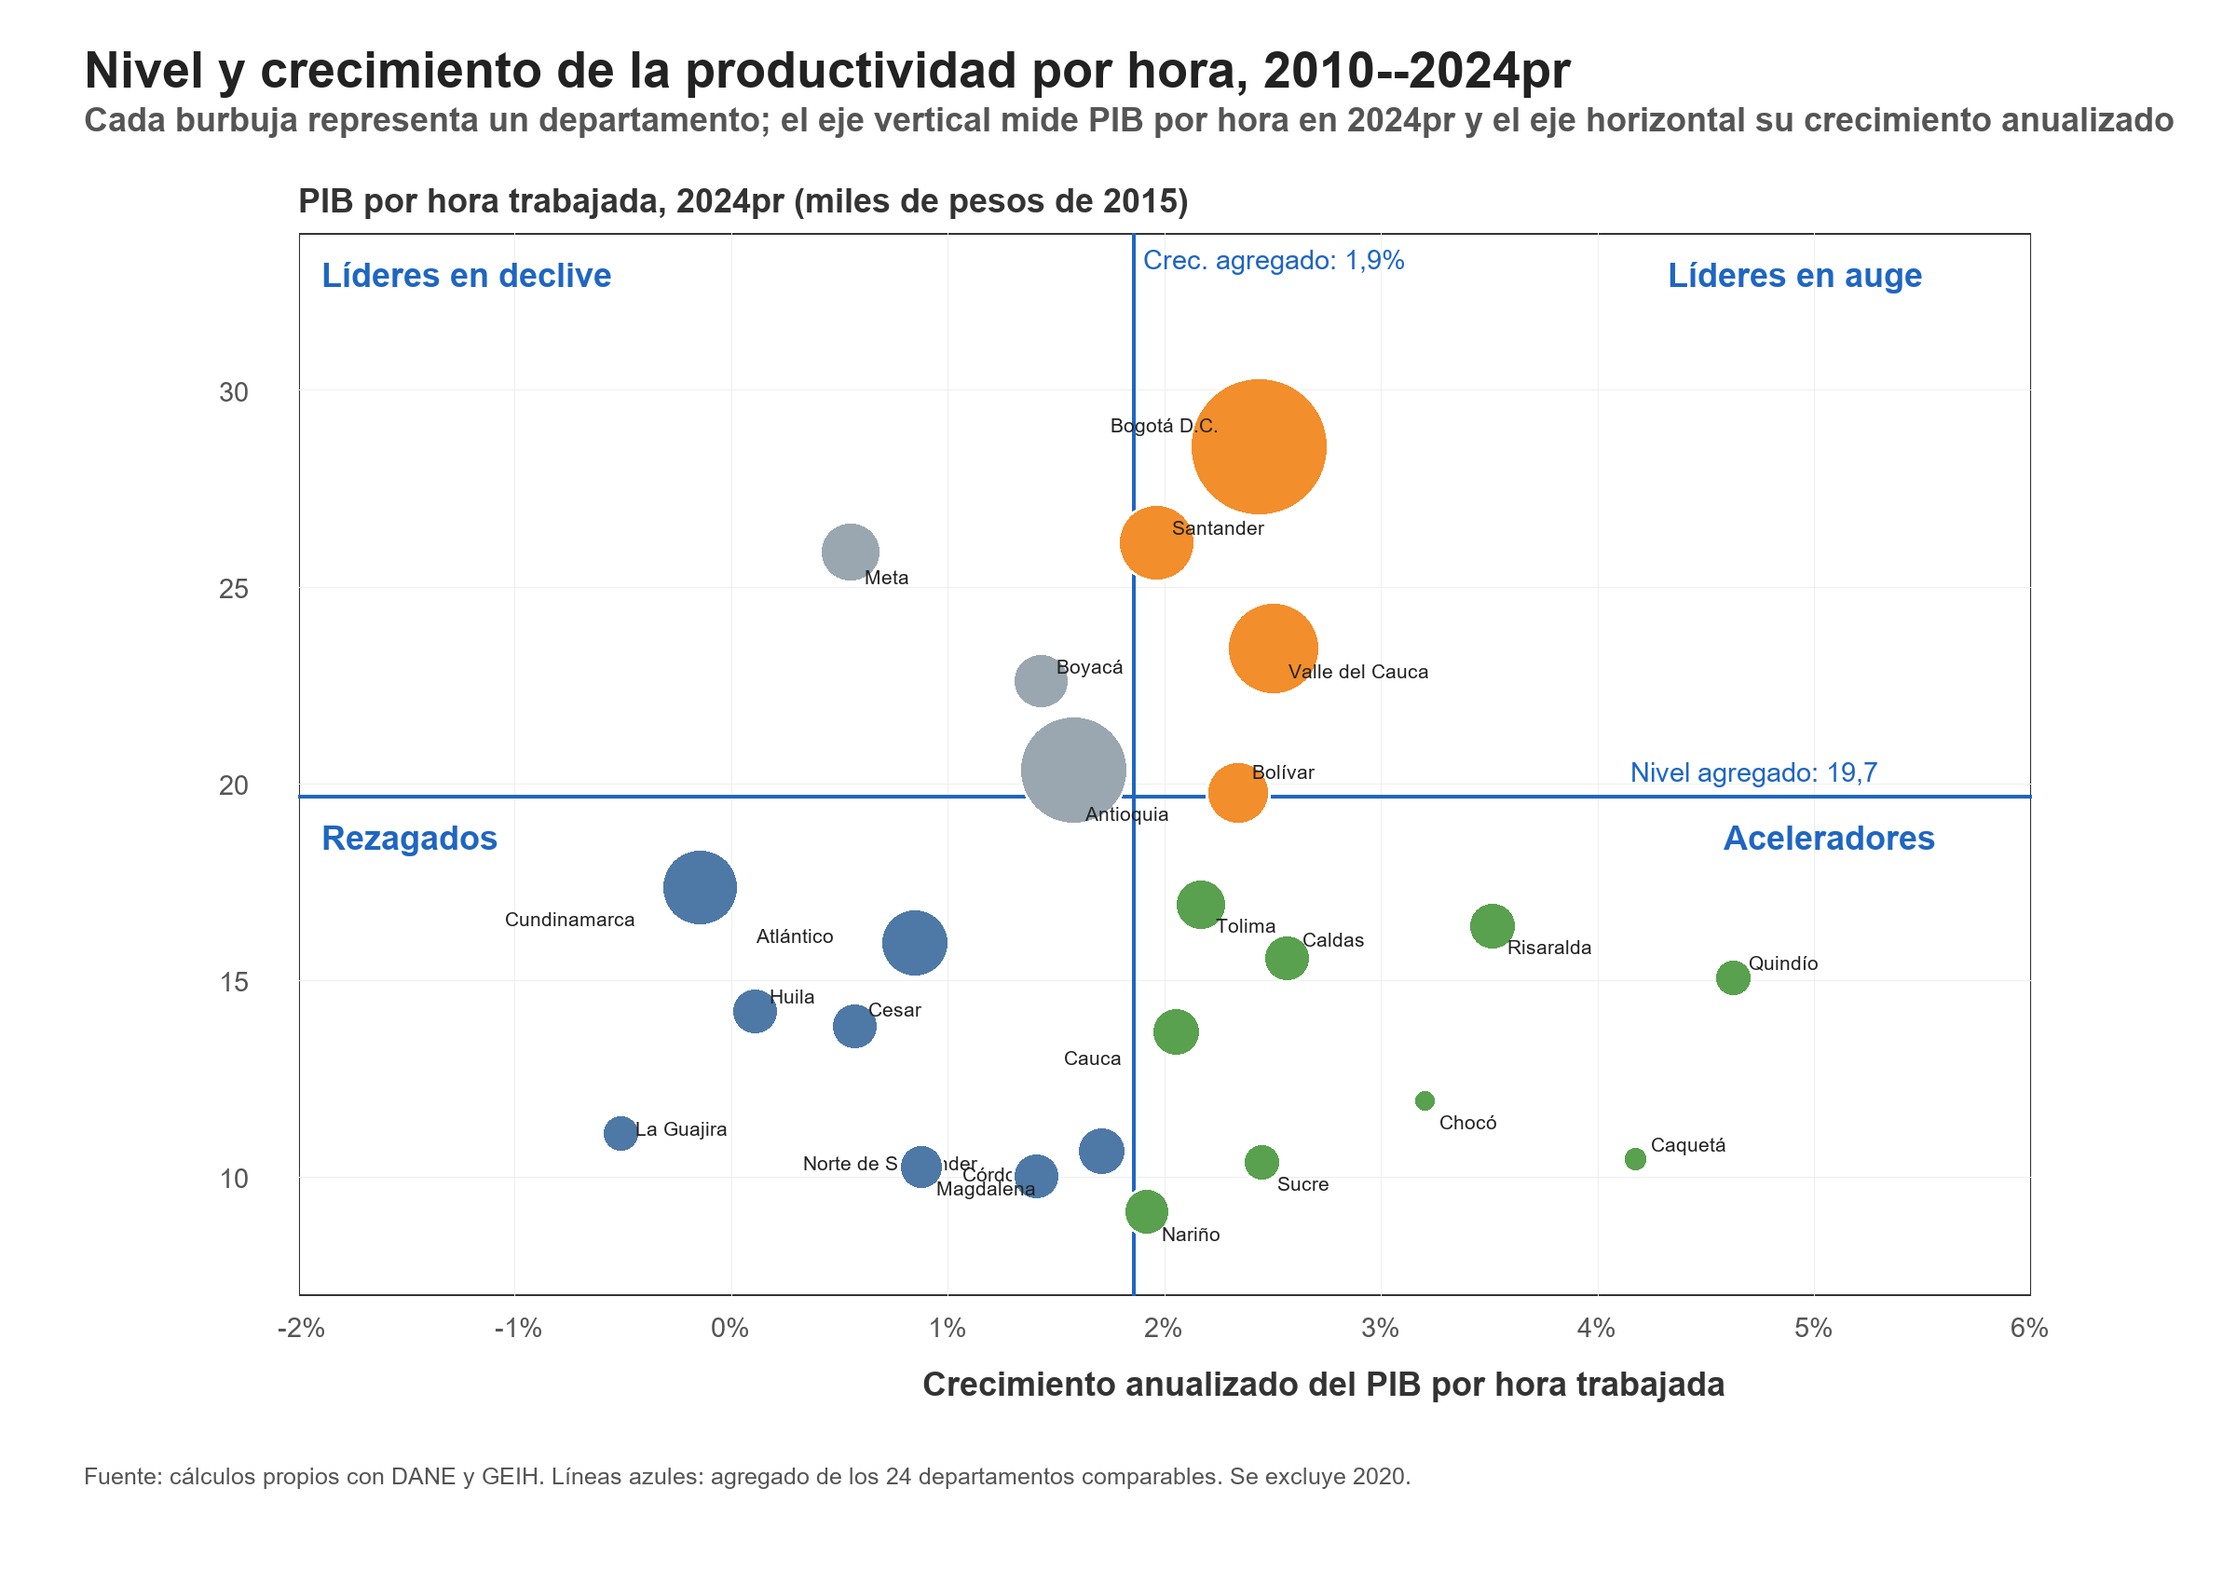
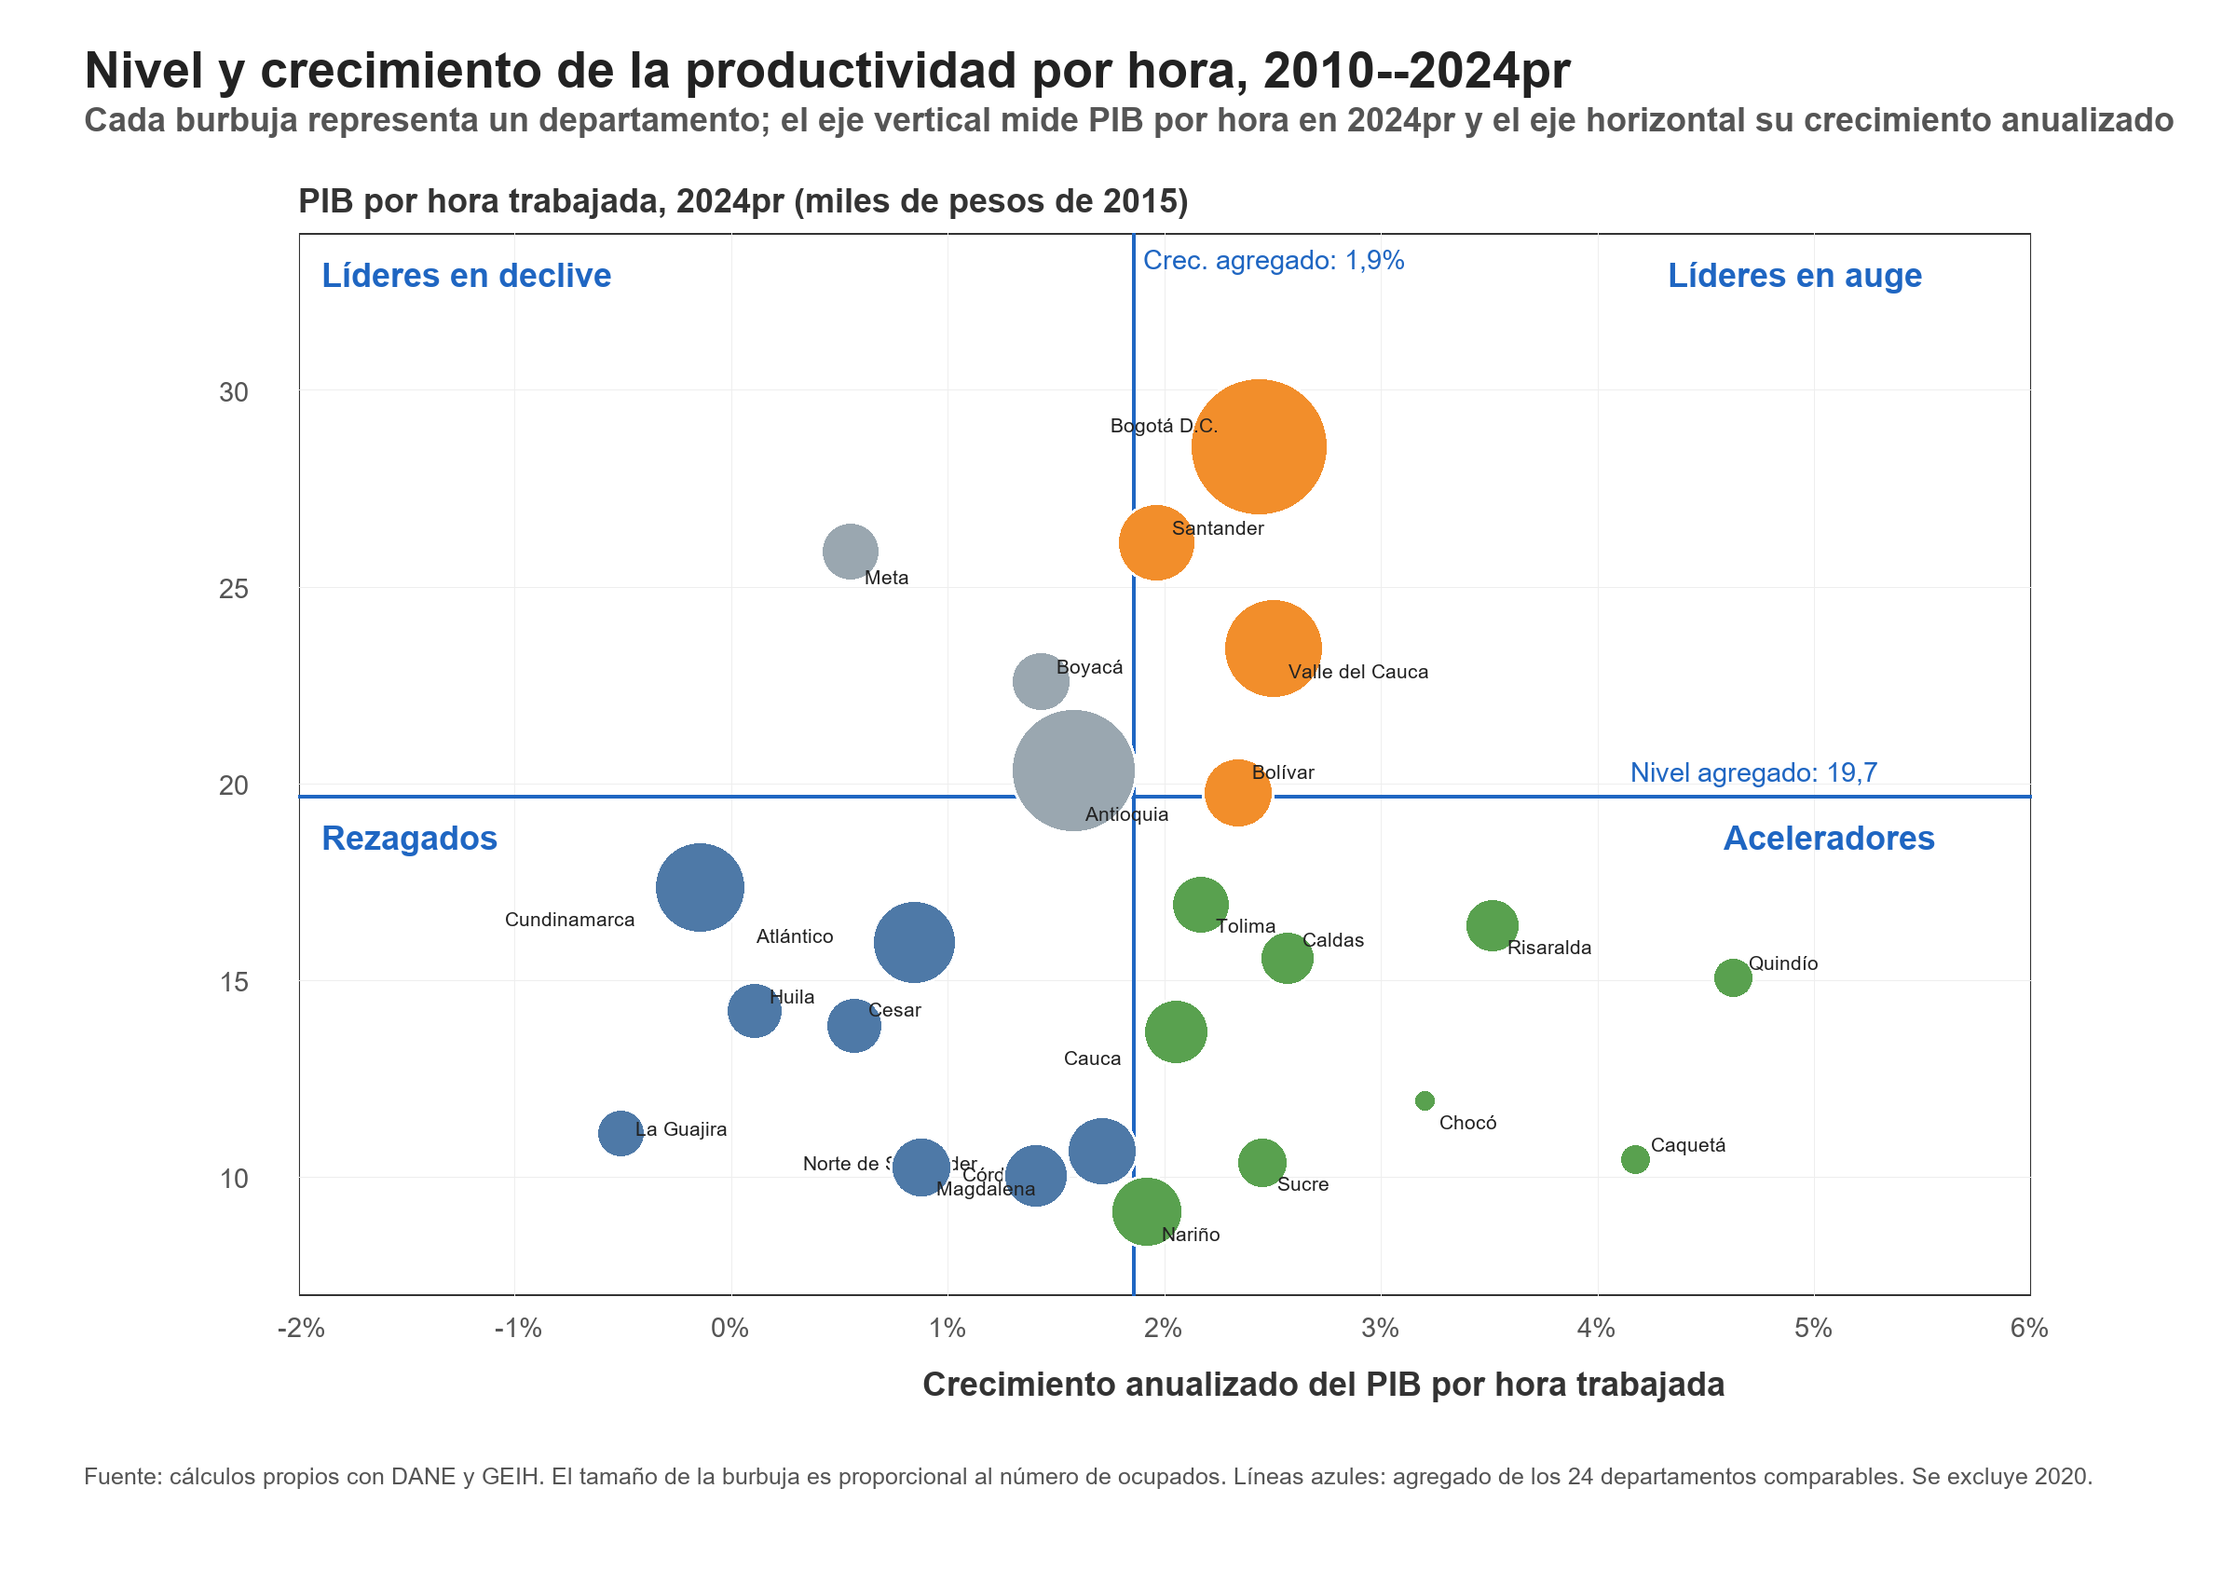
Actualizar cuadrantes departamentales de productividad y remuneracion

diff --git a/Code/02.6_PIB_GEIH_Productividad_Departamentos.py b/Code/02.6_PIB_GEIH_Productividad_Departamentos.py
@@ -625,6 +625,7 @@ def write_productivity_remuneration_table(table: pd.DataFrame) -> None:
         "ranking_crec_pib_trabajador",
         "ranking_crec_rem_trabajador",
         "brecha_ranking_crec_rem_menos_pib",
+        "ocupados_2024",
         "share_ocupados_remuneracion_valida_2024",
         "rem_por_trabajador_predicha_tendencia",
         "residuo_rem_por_trabajador_tendencia",
@@ -993,8 +994,8 @@ def draw_department_quadrant_chart(summary: pd.DataFrame, benchmarks: dict[str, 
         "Aceleradores": "#59a14f",
         "Rezagados": "#4e79a7",
     }
-    pib = data["pib_2024"]
-    min_pib, max_pib = pib.min(), pib.max()
+    ocupados = data["ocupados_2024"]
+    min_ocupados, max_ocupados = ocupados.min(), ocupados.max()
 
     label_offsets = {
         "Bogotá D.C.": (-160, -36),
@@ -1023,10 +1024,10 @@ def draw_department_quadrant_chart(summary: pd.DataFrame, benchmarks: dict[str, 
         "Tolima": (16, 10),
     }
 
-    for _, row in data.sort_values("pib_2024", ascending=False).iterrows():
+    for _, row in data.sort_values("ocupados_2024", ascending=False).iterrows():
         x = x_pos(row["crec_pib_hora"] * 100)
         y = y_pos(row["pib_hora_2024"] / 1000)
-        radius = 13 + 62 * math.sqrt((row["pib_2024"] - min_pib) / (max_pib - min_pib))
+        radius = 13 + 62 * math.sqrt((row["ocupados_2024"] - min_ocupados) / (max_ocupados - min_ocupados))
         color = colors[row["cuadrante"]]
         draw.ellipse((x - radius, y - radius, x + radius, y + radius), fill=color, outline="white", width=3)
         dx, dy = label_offsets.get(row["departamento"], (16, 10))
@@ -1046,12 +1047,161 @@ def draw_department_quadrant_chart(summary: pd.DataFrame, benchmarks: dict[str, 
     )
     draw.text(
         (90, 1570),
-        "Fuente: cálculos propios con DANE y GEIH. Líneas azules: agregado de los 24 departamentos comparables. Se excluye 2020.",
+        "Fuente: cálculos propios con DANE y GEIH. El tamaño de la burbuja es proporcional al número de ocupados. Líneas azules: agregado de los 24 departamentos comparables. Se excluye 2020.",
         fill="#555555",
         font=note_font,
     )
     for directory in [FIGURE_DIR, OUTPUT_FIGURE_DIR]:
         img.save(directory / "fig_pib_geih_productividad_departamento_cuadrantes.png")
+
+
+def classify_remuneration_quadrant(row: pd.Series, x_ref: float, y_ref: float) -> str:
+    right = row["crec_rem_trabajador"] >= x_ref
+    high = row["rem_por_trabajador_2024"] >= y_ref
+    if high and right:
+        return "Líderes en auge"
+    if high and not right:
+        return "Líderes en declive"
+    if not high and right:
+        return "Aceleradores"
+    return "Rezagados"
+
+
+def draw_department_remuneration_quadrant_chart(
+    table: pd.DataFrame, benchmarks: dict[str, float]
+) -> None:
+    data = table.copy()
+    x_ref = benchmarks["crec_rem_trabajador"]
+    y_ref = benchmarks["rem_por_trabajador_2024"]
+    data["cuadrante"] = data.apply(classify_remuneration_quadrant, axis=1, args=(x_ref, y_ref))
+
+    title_font, label_font, small_font, note_font, tiny_font = fonts()
+    img = Image.new("RGB", (2400, 1700), "white")
+    draw = ImageDraw.Draw(img)
+    draw.text(
+        (90, 45),
+        f"Nivel y crecimiento de la remuneración por trabajador, {START_YEAR}--{END_YEAR}pr",
+        fill="#222222",
+        font=title_font,
+    )
+    draw.text(
+        (90, 108),
+        "Eje vertical: nivel en 2024pr; eje horizontal: crecimiento anualizado; burbuja: número de ocupados",
+        fill="#555555",
+        font=label_font,
+    )
+
+    left, top, right, bottom = 320, 250, 2180, 1390
+    x_values = data["crec_rem_trabajador"] * 100
+    y_values = data["rem_por_trabajador_2024"] / 1e6
+    x_ref_pct = x_ref * 100
+    y_ref_millions = y_ref / 1e6
+    x_min = math.floor(min(x_values.min(), x_ref_pct) - 0.8)
+    x_max = math.ceil(max(x_values.max(), x_ref_pct) + 0.8)
+    y_min = max(0, math.floor((min(y_values.min(), y_ref_millions) - 0.2) * 10) / 10)
+    y_max = math.ceil((max(y_values.max(), y_ref_millions) + 0.3) * 10) / 10
+
+    def x_pos(value: float) -> float:
+        return left + (value - x_min) / (x_max - x_min) * (right - left)
+
+    def y_pos(value: float) -> float:
+        return bottom - (value - y_min) / (y_max - y_min) * (bottom - top)
+
+    draw.rectangle((left, top, right, bottom), outline="#333333", width=2)
+    for tick in range(math.ceil(x_min), math.floor(x_max) + 1, 1):
+        x = x_pos(tick)
+        draw.line((x, top, x, bottom), fill="#eeeeee", width=1)
+        draw.text((x - 22, bottom + 18), f"{tick}%", fill="#555555", font=small_font)
+
+    y_tick = math.ceil(y_min * 2) / 2
+    while y_tick <= y_max + 1e-9:
+        y = y_pos(y_tick)
+        draw.line((left, y, right, y), fill="#eeeeee", width=1)
+        draw.text((left - 95, y - 15), fmt_num_es(y_tick, 1), fill="#555555", font=small_font)
+        y_tick += 0.5
+
+    x_line = x_pos(x_ref_pct)
+    y_line = y_pos(y_ref_millions)
+    blue = "#1f66c2"
+    draw.line((x_line, top, x_line, bottom), fill=blue, width=4)
+    draw.line((left, y_line, right, y_line), fill=blue, width=4)
+    draw.text((x_line + 10, top + 12), f"Crec. agregado: {fmt_num_es(x_ref_pct, 1)}%", fill=blue, font=small_font)
+    draw.text((left + 25, y_line - 58), f"Nivel agregado: {fmt_num_es(y_ref_millions, 1)}", fill=blue, font=small_font)
+
+    quadrant_labels = [
+        ("Líderes en declive", left + 25, top + 25),
+        ("Líderes en auge", right - 390, top + 25),
+        ("Rezagados", left + 25, y_line + 25),
+        ("Aceleradores", right - 330, y_line + 95),
+    ]
+    for label, x, y in quadrant_labels:
+        draw.text((x, y), label, fill=blue, font=label_font)
+
+    colors = {
+        "Líderes en auge": "#f28e2b",
+        "Líderes en declive": "#9aa7b0",
+        "Aceleradores": "#59a14f",
+        "Rezagados": "#4e79a7",
+    }
+    ocupados = data["ocupados_2024"]
+    min_ocupados, max_ocupados = ocupados.min(), ocupados.max()
+
+    label_offsets = {
+        "Bogotá D.C.": (-170, -48),
+        "Antioquia": (22, 30),
+        "Valle del Cauca": (18, 28),
+        "Santander": (16, -30),
+        "Cundinamarca": (18, -52),
+        "Atlántico": (-128, 22),
+        "Bolívar": (16, -30),
+        "Meta": (18, -52),
+        "Cesar": (16, -28),
+        "Córdoba": (-150, 12),
+        "Nariño": (-110, 14),
+        "Norte de Santander": (-250, -26),
+        "Quindío": (16, 24),
+        "Risaralda": (20, 24),
+        "Caldas": (18, -54),
+        "Sucre": (16, 10),
+        "Chocó": (16, 10),
+        "La Guajira": (16, -18),
+        "Magdalena": (16, 10),
+        "Caquetá": (16, -28),
+        "Cauca": (-120, 16),
+        "Huila": (16, -28),
+        "Boyacá": (16, -28),
+        "Tolima": (16, 10),
+    }
+
+    for _, row in data.sort_values("ocupados_2024", ascending=False).iterrows():
+        x = x_pos(row["crec_rem_trabajador"] * 100)
+        y = y_pos(row["rem_por_trabajador_2024"] / 1e6)
+        radius = 13 + 62 * math.sqrt((row["ocupados_2024"] - min_ocupados) / (max_ocupados - min_ocupados))
+        color = colors[row["cuadrante"]]
+        draw.ellipse((x - radius, y - radius, x + radius, y + radius), fill=color, outline="white", width=3)
+        dx, dy = label_offsets.get(row["departamento"], (16, 10))
+        draw.text((x + dx, y + dy), row["departamento"], fill="#222222", font=tiny_font)
+
+    draw.text(
+        ((left + right) / 2 - 330, bottom + 75),
+        "Crecimiento anualizado de la remuneración por trabajador",
+        fill="#333333",
+        font=label_font,
+    )
+    draw.text(
+        (left, top - 55),
+        "Remuneración mensual por trabajador, 2024pr (millones de pesos de 2025)",
+        fill="#333333",
+        font=label_font,
+    )
+    draw.text(
+        (90, 1570),
+        "Fuente: cálculos propios con GEIH. El tamaño de la burbuja es proporcional al número de ocupados. Líneas azules: agregado de los 24 departamentos comparables. Se excluye 2020.",
+        fill="#555555",
+        font=note_font,
+    )
+    for directory in [FIGURE_DIR, OUTPUT_FIGURE_DIR]:
+        img.save(directory / "fig_geih_remuneracion_departamento_cuadrantes.png")
 
 
 def draw_department_correlation_scatter(summary: pd.DataFrame) -> None:
@@ -1429,6 +1579,7 @@ def main() -> None:
     write_correlation_table(summary)
     draw_department_growth_chart(summary)
     draw_department_quadrant_chart(summary, benchmarks)
+    draw_department_remuneration_quadrant_chart(rem_table, rem_benchmarks)
     draw_department_convergence_scatter(summary)
     draw_department_correlation_scatter(summary)
     draw_productivity_remuneration_scatter(rem_table, rem_benchmarks)

diff --git a/Paper/sections/CuerpoInformeProductividadDepartamentos.tex b/Paper/sections/CuerpoInformeProductividadDepartamentos.tex
@@ -88,6 +88,16 @@
 
 \textbf{El crecimiento de la remuneración y el crecimiento del PIB por trabajador están relacionados, pero menos que sus niveles.} La correlación entre ambas tasas de crecimiento es cercana a 0,45, menor que la correlación observada en niveles. Risaralda, Caldas y Bogotá D.C. combinaron crecimientos relativamente altos de remuneración y de PIB por trabajador. En cambio, Cundinamarca y Meta tuvieron crecimientos altos o medios de la remuneración pese a un crecimiento débil o negativo del PIB por trabajador. También hay casos en la dirección contraria: Quindío, Caquetá, Chocó, Santander y Sucre registraron crecimientos del PIB por trabajador claramente superiores a los de la remuneración por trabajador. Esto sugiere que los aumentos de productividad no se traducen de manera automática ni homogénea en aumentos de remuneración.
 
+\begin{figure}[H]
+  \centering
+  \includegraphics[width=\textwidth]{Paper/figures/fig_geih_remuneracion_departamento_cuadrantes.png}
+  \caption{Nivel y crecimiento de la remuneración por trabajador por departamento, 2010--2024pr}
+  \label{fig:geih_remuneracion_departamento_cuadrantes}
+  \caption*{\footnotesize Nota: la línea vertical muestra el crecimiento agregado de la remuneración por trabajador y la línea horizontal muestra el nivel agregado de remuneración por trabajador en 2024pr. El tamaño de la burbuja es proporcional al número de ocupados del departamento. Fuente: cálculos propios con GEIH.}
+\end{figure}
+
+\textbf{La misma lectura por cuadrantes muestra que la remuneración tiene una geografía distinta a la productividad.} Bogotá D.C. y Caldas combinan niveles altos de remuneración con crecimientos superiores al agregado. Antioquia, Santander y Valle del Cauca mantienen remuneraciones altas, pero con crecimientos por debajo del agregado. En cambio, Cundinamarca, Meta y Risaralda aparecen como aceleradores de remuneración: no están por encima del nivel agregado en 2024pr, pero registraron aumentos superiores al promedio durante el periodo. Esta diferencia frente a los cuadrantes de productividad refuerza que producir más por trabajador y remunerar más al trabajador están relacionados, pero no son el mismo fenómeno.
+
 \section{Niveles y crecimientos de la productividad}
 
 \textbf{La comparación entre niveles y crecimientos ayuda a ordenar mejor el diagnóstico territorial.} La Figura \ref{fig:pib_geih_productividad_departamento_cuadrantes} cruza el crecimiento anualizado del PIB por hora trabajada entre 2010 y 2024pr con el nivel de PIB por hora en 2024pr. La línea vertical marca el crecimiento del agregado de los 24 departamentos y la línea horizontal marca su nivel de productividad por hora en 2024pr.
@@ -97,6 +107,7 @@
   \includegraphics[width=\textwidth]{Paper/figures/fig_pib_geih_productividad_departamento_cuadrantes.png}
   \caption{Nivel y crecimiento de la productividad por hora por departamento, 2010--2024pr}
   \label{fig:pib_geih_productividad_departamento_cuadrantes}
+  \caption*{\footnotesize Nota: la línea vertical muestra el crecimiento agregado del PIB por hora trabajada y la línea horizontal muestra el nivel agregado de PIB por hora en 2024pr. El tamaño de la burbuja es proporcional al número de ocupados del departamento. Fuente: cálculos propios con DANE y GEIH.}
 \end{figure}
 
 \textbf{Los cuadrantes muestran cuatro situaciones distintas.} Bogotá D.C., Santander, Valle del Cauca y Bolívar aparecen como líderes en auge: tienen un nivel de PIB por hora superior al agregado y, además, crecieron por encima del agregado. Meta, Boyacá y Antioquia aparecen como líderes en declive relativo: mantienen niveles altos de productividad, pero su crecimiento fue inferior al del agregado. Quindío, Caquetá, Risaralda, Chocó, Caldas y Sucre aparecen como aceleradores: tienen niveles bajos o medios de productividad, pero crecieron con fuerza. Finalmente, Cundinamarca, Atlántico, Huila, Cesar, Magdalena y La Guajira se ubican entre los rezagados: tienen niveles de productividad por hora inferiores al agregado y también crecieron por debajo de él.
